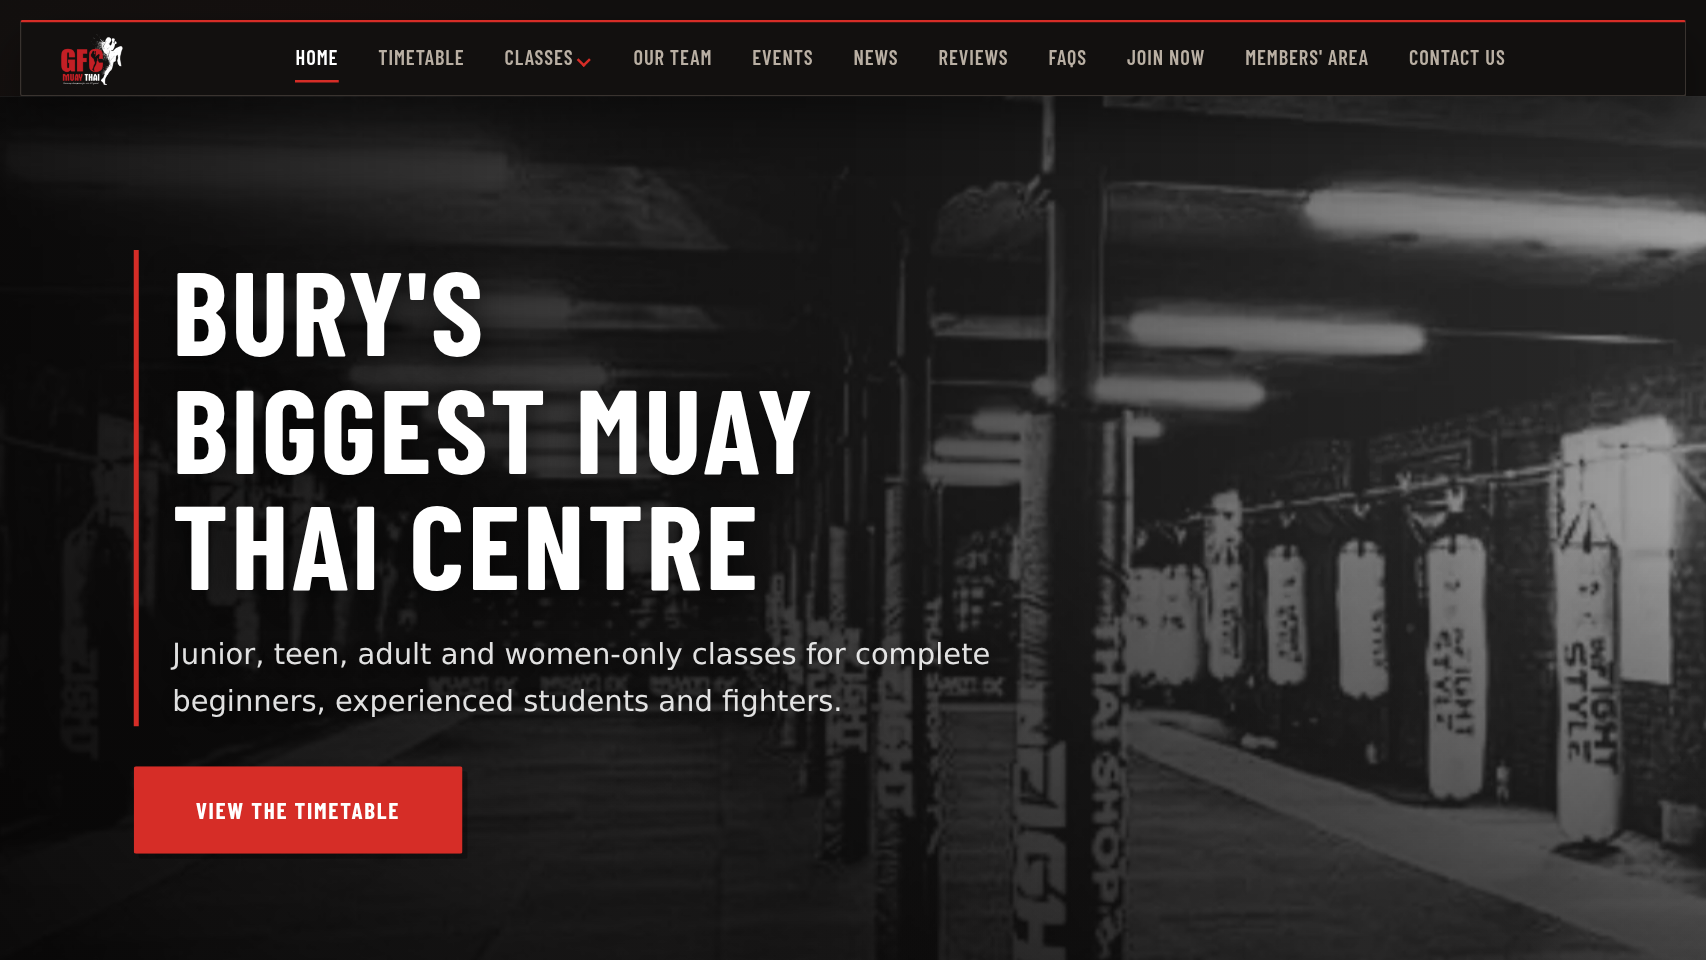
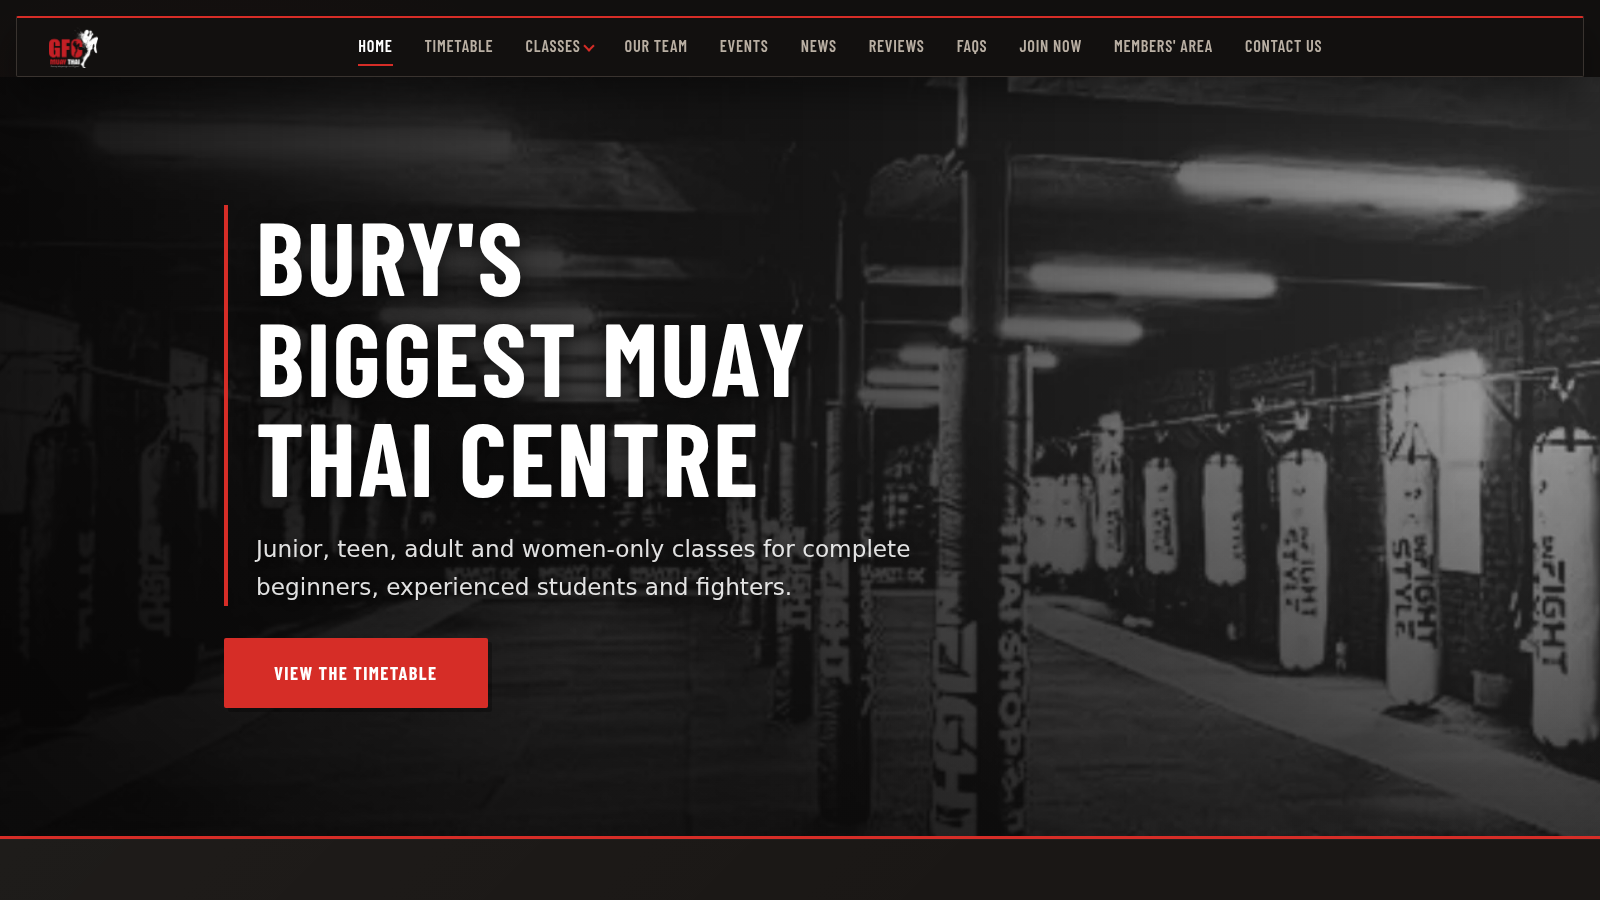
Add martial arts club web design page

diff --git a/src/css/style.scss b/src/css/style.scss
@@ -512,7 +512,8 @@ input[type="submit"] {
 .cards,
 .vegan-business-websites .examples ul,
 .static-websites .examples ul,
-.restaurant-web-design .examples ul {
+.restaurant-web-design .examples ul,
+.martial-arts-club-web-design .examples ul {
   display: grid;
   grid-template-columns: repeat(auto-fill, minmax(260px, 1fr));
   gap: 1rem;
@@ -532,7 +533,8 @@ input[type="submit"] {
 .text-card,
 .cards > *,
 .vegan-business-websites .examples ul > *,
-.restaurant-web-design .examples ul > * {
+.restaurant-web-design .examples ul > *,
+.martial-arts-club-web-design .examples ul > * {
   margin: 0;
   background: var(--bg-inset);
   color: var(--fg);
@@ -714,7 +716,8 @@ footer {
 // examples thumbnails
 .example-thumb,
 .vegan-business-websites .examples ul li picture,
-.restaurant-web-design .examples ul li picture {
+.restaurant-web-design .examples ul li picture,
+.martial-arts-club-web-design .examples ul li picture {
   display: block;
   aspect-ratio: 296/205;
   position: relative;

diff --git a/src/services/martial-arts-club-web-design.md b/src/services/martial-arts-club-web-design.md
@@ -1,0 +1,126 @@
+---
+title: Martial Arts Club Web Design
+meta_title: Martial Arts Club Web Design | Gym Websites | Manchester | Chobble
+description: Fast, editable websites for martial arts clubs - class pages, timetables, memberships and a site you own. Built for Muay Thai and boxing clubs around Greater Manchester and Lancashire.
+snippet: Websites for martial arts clubs that you can edit yourself
+meta_description: Martial arts club web design - Muay Thai and boxing gyms, class pages, timetables, memberships, fast static sites you own - from £600.
+order: 8
+---
+
+# Martial arts club website design
+
+I've built three martial arts club websites lately: [GFC Muay Thai](/examples/gfc-muay-thai/) in Bury, MPL Box Fit in Haslingden, and Enigma Performance Centre in Standish. They're all Muay Thai or boxing clubs, all run by people who coach all day and fit the website around it, and all three were put together from WhatsApp messages, voice notes and phone photos rather than a formal brief. The specs arrived in the chat, I sorted the site, they told me what needed changing, and we went from there. Nobody had to write a document about their own gym.
+
+## A few examples
+
+<div class="examples">
+
+- ![The GFC Muay Thai homepage, showing rows of heavy bags behind the headline "Bury's biggest Muay Thai centre"](/assets/examples/gfc-muay-thai.png) **[GFC Muay Thai](/examples/gfc-muay-thai/)** is a family club in Bury that's been going since the 80s. Luke coaches all day, so the site was built from voice notes between classes, photos from his phone and a brain dump about the gym's history. It has a page for each class, a full timetable, eight coaches, Google reviews and an Instagram feed, and Luke now runs it himself.
+- ![The MPL Box Fit homepage, with a dark gym photo behind the headline and red and white branding](/assets/examples/mpl-box-fit.png) **[MPL Box Fit](https://www.mplboxfit.co.uk/)** is a boxing-fitness studio inside Monkey Playland in Haslingden. Mo sent me photos of the room and the kit, and the site explains the boxfit classes, junior boxing, strength and conditioning and one-to-one coaching, with the £10 pay-as-you-go price and the full class times up front.
+- ![The Enigma Performance Centre homepage, showing head coach Josh Hill against a purple background and the headline "Muay Thai in Standish"](/assets/examples/enigma-performance-centre.png) **[Enigma Performance Centre](https://www.enigmaperformancecentre.co.uk/)** is a new Muay Thai gym in Standish, Wigan, opened by Josh Hill and coached by Josh, Emily and Laura. Laura sent me a stream of consciousness about the club, the coaches and how they wanted it to feel, and the first version went up the day after they paid the invoice. Josh got in touch after Luke at GFC recommended me.
+
+</div>
+
+## Start with the classes
+
+Someone looking for a martial arts club is usually trying to work out four or five things: is there a class for my age, can I start with no experience, will I have to spar, what does it cost, and what actually happens when I walk in. A homepage full of moody photos of people doing flying knees doesn't answer any of that, so the class pages do the work.
+
+At GFC that means junior (6-11), teen (12-15), adult (15+), women-only and personal training pages, each explaining who the session is for and answering the questions Luke gets on the phone. At Enigma there's juniors, adults, coached sparring in two ability groups, a four-week fundamentals course and one-to-one sessions, with the coaches' competition records on the page because that's part of why people are choosing the gym. At MPL there's boxfit, junior boxing, strength and conditioning and one-to-one coaching, with the class times for ladies' mornings, ladies' evenings and men's sessions set out plainly, and the detail that kids can play for free in Monkey Playland while their parents train, which is the sort of thing that decides whether a parent can join a gym at all.
+
+None of that is clever. It's just taking the questions people already ask on the phone and putting the answers on a page, which saves the coach repeating themselves and gives Google something specific to index.
+
+## Timetables and prices, without the PDFs
+
+The timetable is a normal web page, not a PDF and not a picture of a spreadsheet. That matters more than it sounds: most people are looking at your site on a phone, in a queue or on the bus, and a PDF that opens at 40% and needs pinching and zooming is a good way to lose them. The class times sit in a page they can read, with the address underneath and a button to book or ask about the session.
+
+Prices are on the page too. GFC has drop-in prices and memberships, Enigma has adult, teen and junior memberships plus pay-as-you-go, and MPL is £10 per class with no commitment. If a price or a time changes, the owner edits it in a browser form and the site updates a minute later. That's the whole workflow.
+
+## Memberships and bookings
+
+Every club does this differently, so I don't force everyone onto the same system.
+
+GFC already used ammhub for memberships and class packs, and it works, so it stayed. I offered them a go on the booking system I built myself first - I spent ten years making booking software for the hire industry - but GFC's needs are recurring memberships and class packs rather than one-off slot bookings, and the right tool beats my own tool. The site originally embedded ammhub in an iframe, which meant getting their payment provider, GoCardless, to load inside it. When ammhub later rebuilt their booking flow as its own micro-site, I swapped the iframe for a clean button through to it, which is less likely to break next time they change something.
+
+Enigma wanted members and pay-as-you-go customers to fill in a health and safety waiver, emergency contact details and photo consent before they got to the payment link. Laura was doing that with a Google Doc and then sending a Stripe link by hand. The site now collects the enquiry first, then shows the four Stripe payment links on the thank-you page, so nobody can reach the payment links without filling in the form. It doesn't link the form to the payment automatically, so Laura still confirms each membership manually and sends the right link, but that's how she was already working, and it keeps the change small. There's deliberately no booking system on the Enigma site.
+
+MPL is simpler: £10 per class, pay as you go, no membership. The site explains the classes and takes enquiries through a contact form, which is the right amount of machinery for how the gym runs.
+
+If you need one-off class bookings or event tickets, [Chobble Tickets](https://tickets.chobble.com) does that for a flat fee and takes no cut of sales. Recurring memberships are the bit I'm adding to it, because Josh and Luke both wanted them, but until that's done I'm not going to pretend it's the right fit for every club.
+
+## The words come from you
+
+The best part of these three builds was the content, and none of it started as website copy. Luke sent voice notes between classes and photos from his camera roll. Laura sent me a long message about the club's vision and told me she wasn't sure how wordy to be, and I told her to send everything she could think of, because the useful part is her thinking, not a polished summary. Mo sent pictures of the gym and answered questions in the chat.
+
+What I don't want is a page that could describe any club in the country. Luke initially sent over some FAQs he'd generated with ChatGPT, and I sent them back. AI is good at tidying up spelling and dreadful at keeping the thing that makes your gym yours, and bland copy doesn't help you rank either. If you'd rather use AI to think something through, send me the prompt and your own answer as well - that's much better raw material than the output.
+
+I'll turn the voice notes and messages into pages, send them over for you to check, and change anything that doesn't sound like you. That's usually the bit people are most relieved about, because writing a website is the job that never gets to the top of the list when you're coaching six days a week.
+
+## You run it, and I'm here if you want me
+
+The plan from the start is that the club owns the site. You get the full source code, the site is built with open source tools, and there's no platform subscription sitting between you and your own content. If you want to edit it yourself, you get a browser-based editor and a walkthrough; if you'd rather send me changes, that's fine too.
+
+GFC has taken that further than most. Luke now hosts the site himself, on his own GitHub and Bunny account, and uses Claude to help him make changes. I removed the domain from my Bunny account so he could add it to his own. That's not a story about me being replaced by a robot - it's a story about a gym owner who wanted to control his own website and had the curiosity to have a go. It's the same thing Jamie at [Surrey Face Booth](/reviews/) said after his build:
+
+> He set everything up so that it was genuinely easy for us to take over and expand ourselves. The structure is logical, the documentation is clear, and editing or adding new content doesn't require us to go running back to a developer every time we want to change a sentence or add a page.
+
+If that sounds like more work than you want, it doesn't have to be. You can stay on the [£40 a month support package](/prices/#content) and send me the changes, or the £10 a month hosting-only tier and handle the editing yourself. You can also take the code and host it elsewhere for nothing, and I'll help you move it. Use me as much or as little as suits the club.
+
+## Fast, and built to be found locally
+
+These are static sites served from a CDN, which means the pages are written out in advance rather than assembled by a database every time somebody visits. There's no plugin to update, no admin dashboard loading before the page does, and nothing to slow down when the site gets busy. The three homepages above all load in around a second or less, photos included.
+
+For search, the important bits are local and specific. Each site names its town in the title, headings and page metadata, because "Muay Thai Bury" or "boxing gym Haslingden" is what somebody types, not "martial arts club". The class pages answer real questions, the class times and address are easy to find, and the sites can pull in Google reviews and Instagram posts so there's fresh, genuine content without the owner having to write a blog post every week. A fast, clear site with proper structured data gives you a good foundation; the ongoing work of links, reviews and content is what turns that into rankings, and I'll point you at my [free marketing guides](/guides/) if you want to have a bash at it yourself.
+
+## What it costs
+
+I charge [£200 an hour](/prices/) and break down what each hour covers, so there are no surprise invoices. A simple club site on my [Chobble Template](/services/chobble-template/) starts at **£600**, which covers the design, the main pages, the editing setup and the initial SEO work. A club with a page for every class, a timetable, a page for each coach, news and reviews is a bigger job - usually a few days rather than one - and I'll quote it properly once I know what you need. The [price calculator](/price-calculator/) gives you a rough figure in the meantime.
+
+Hosting is **£10 a month** on its own or **£40 a month** with support, updates and marketing help, and both are optional because you own the code. Charities, co-ops and community groups get the usual 50% discount on all of it.
+
+## Questions
+
+<details>
+<summary><strong>I haven't written any content. Can you still build it?</strong></summary>
+
+Yes, and that's the normal way these go. Send voice notes, photos, old Facebook posts, a rambling message about how the club started - whatever you've got. I'll shape it into pages and you tell me what's wrong. The only thing I'd rather you didn't send is generic AI-written copy, because it loses the details that make the site worth reading.
+
+</details>
+
+<details>
+<summary><strong>Can we keep our existing booking or membership system?</strong></summary>
+
+Usually, yes. GFC kept ammhub. Enigma kept Stripe payment links. If your system gives you a link or an embed, I can put it on the site. If it doesn't, we can talk about whether it's worth changing or whether the site should just explain how to join and let you handle the rest.
+
+</details>
+
+<details>
+<summary><strong>Can I edit the site myself?</strong></summary>
+
+Yes. You get a browser-based editor for the pages, classes, timetable, team and reviews, and I'll walk you through it. If you're comfortable with GitHub and want to go further, you can take the whole repository and host it yourself, which is what Luke did at GFC.
+
+</details>
+
+<details>
+<summary><strong>Will we rank first for "Muay Thai in [our town]"?</strong></summary>
+
+I can give you a fast, well-structured site with the town and classes named clearly, proper structured data, and reviews pulled in automatically. That's a strong start. What it can't do is guarantee a position, because rankings also depend on links, reviews, competition and time. I'll be honest about what's realistic rather than promise you the top spot.
+
+</details>
+
+<details>
+<summary><strong>Do you only work with Muay Thai and boxing clubs?</strong></summary>
+
+No. Those are the three I've built most recently, but the shape is the same for judo, karate, BJJ, MMA or a mixed martial arts centre: classes by age and level, a timetable, the coaches, how to join, and a site you can update without ringing a developer. If you run a different kind of club, get in touch and tell me how it works.
+
+</details>
+
+<details>
+<summary><strong>What happens if I want to leave?</strong></summary>
+
+You own the source code, the domain can be in your name, and the site can be hosted anywhere. I'll help you move it and won't hold anything back. That's the point of building it this way.
+
+</details>
+
+## Get in touch
+
+If you run a martial arts club and want a site that explains the classes properly, comes from your own words, and that you can run yourself, fill in the form below. Tell me the town, the classes you run and how people join at the moment, and I'll come back with a proper quote.

diff --git a/src/examples/gfc-muay-thai.md b/src/examples/gfc-muay-thai.md
@@ -10,9 +10,9 @@ meta_description: Muay Thai gym website on the Chobble Template - voice notes tu
 # GFC Muay Thai
 
 - **Client:** GFC Muay Thai, Bury
-- **Services:** Website build, hosting, and email migration
+- **Services:** Website build, email migration, and handover to Luke's own hosting
 - **Website:** [gfcmuaythai.co.uk](https://www.gfcmuaythai.co.uk)
-- **Source code:** [on GitHub](https://github.com/chobbledotcom/gfc-muay-thai)
+- **Source code:** Luke's own GitHub repository
 
 GFC is a family Muay Thai gym in Bury that's been going since the 80s - Darren Phillips started the club after training with Master Sken and Sandy Holt in 1983, and his son Luke took over running it a few years back, moving it into a 5,000+ sq ft space at Bright Street Mill with 20 heavy bags and two rings, which he refurbished himself with help from the members and the gym's brand partner, InFightStyle. Luke coaches all day (often from the 9am fighters' class through to evening sessions), and what he wanted was a site that would carry all of that history properly: the old one was broken in a few places, the classes needed explaining to people who'd never done any martial arts, and - like a lot of people who run a business and coach all day - he had no time to sit down and write website copy.
 
@@ -26,7 +26,7 @@ Pages for each class type - Junior (6-11), Teen (12-15), Adult (15+), Women's On
 
 ## Technical details
 
-It's the [Chobble Template](/services/chobble-template/) with the blocks layout, built as a static site and deployed to Bunny's CDN through GitHub Actions whenever anything changes. Luke edits it himself through [PagesCMS](https://pagescms.org/) (with the CMS trimmed down to just pages, news, team and reviews), and hosting is the [£10/month tier](/prices/) with no support contract - changes beyond what he can do himself in the CMS are billable at my usual hourly rate, which he prefers to paying for support he'd rarely use.
+It's the [Chobble Template](/services/chobble-template/) with the blocks layout, built as a static site and deployed to Bunny's CDN through GitHub Actions whenever anything changes. Luke edits it himself through [PagesCMS](https://pagescms.org/) (with the CMS trimmed down to just pages, news, team and reviews). Since launch he's moved the hosting onto his own Bunny account and put the repository on his own GitHub, so he controls the whole setup - there's no support contract and no monthly fee to me, and changes beyond what he can do himself are billable at my usual hourly rate, which he prefers to paying for support he'd rarely use.
 
 The booking side runs on [ammhub](https://ammhub.com), a martial arts membership system the gym was already using. I did offer him a go on the booking system I built myself first - I spent ten years making booking software for the hire industry - but what GFC needs is memberships and class packs rather than one-off slot bookings, so ammhub stayed, and honestly that's the right outcome: the right tool beats your own tool. At first I embedded it as an iframe, which meant adjusting the site's security settings so their payment provider, GoCardless, could load inside it - and when ammhub later rebuilt their booking flow as a separate micro-site, I switched the site over to a clean button through to it, which is more future-proof anyway. The site links to it from the booking page, the timetable, and a few other spots, because that's the one thing that actually needs to be obvious.
 
@@ -34,6 +34,6 @@ The emails were a whole job in themselves: the domain was registered with one co
 
 ## Still going
 
-Luke's since come back to me about building a site for his next business venture, which is the best kind of feedback I get - and he now edits most things on the gym's site himself through the CMS, which was the plan from the start.
+Luke's since come back to me about building a site for his next business venture. He now runs the gym's site and hosting himself, using Claude to help him make changes, and he recommended me to Josh at [Enigma Performance Centre](/services/martial-arts-club-web-design/), the Muay Thai gym in Standish - which is about as good a review as you can get.
 
 **If you run a gym or a club and want a site that carries the history properly - and that you can edit yourself - fill in the form below and I'll reply within 48 hours.**
